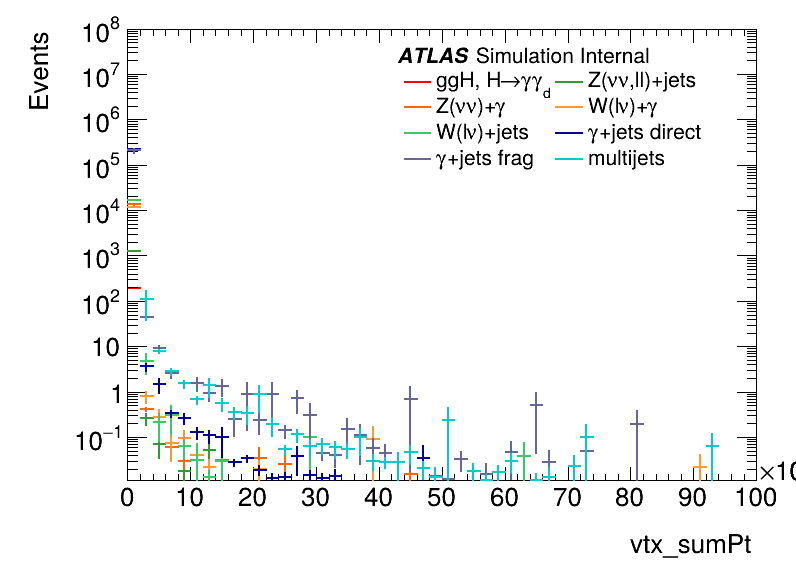
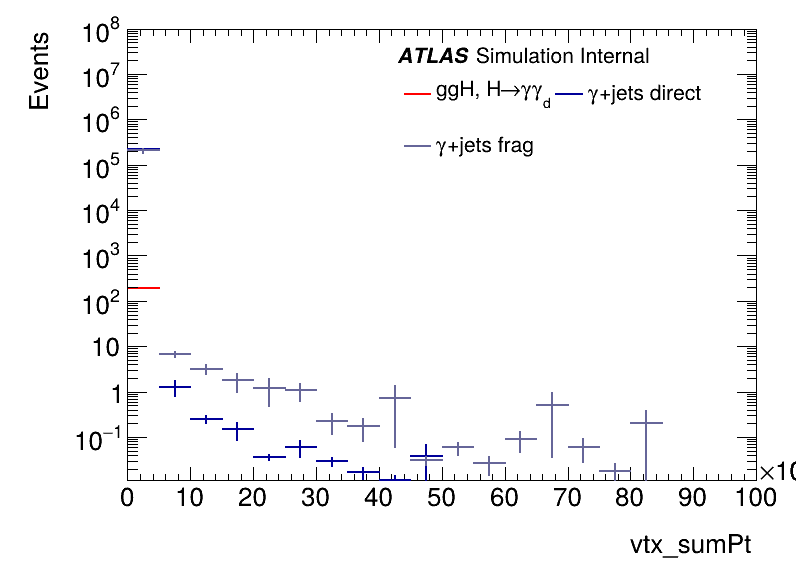
commit all

diff --git a/postprocessing/Plotting/Dictionaries.py b/postprocessing/Plotting/Dictionaries.py
@@ -4,10 +4,10 @@ import ROOT
 
 def getVarDict():
     dict = {}
-    dict['vtx_sumPt']=              {'var':'vtx_sumPt','bins':[50,0,100000], 'title': 'vtx_sumPt', 'shift':'+0'}
+    dict['vtx_sumPt']=              {'var':'vtx_sumPt','bins':[20,0,100000], 'title': 'vtx_sumPt', 'shift':'+0'}
     # dict['puWeight']=               {'var':'pu_weight','bins':[50,0,2], 'title': 'PU weight', 'shift':'+0'}#150*(1-1/0.7)'}
     # dict['actualIntPerXing']=       {'var':'actualIntPerXing','bins':[50,0,100], 'title': '<#mu>', 'shift':'+0'}#150*(1-1/0.7)'}
-    # dict['mt']=                     {'var':'(mt/1000)','bins':[15,0,300], 'title': 'm_{T} [GeV]', 'shift':'+0'}#150*(1-1/0.7)'}
+    # dict['mt']=                     {'var':'sqrt(2*met_tst_et*ph_pt[0]*(1-cos(met_tst_phi-ph_phi[0])))/1000','bins':[15,0,300], 'title': 'm_{T} [GeV]', 'shift':'+0'}#150*(1-1/0.7)'}
     # dict['metsig']=                 {'var':'met_tst_sig','bins':[15,0,30], 'title': 'E_{T}^{miss} significance', 'shift':'*1'}#((met_tst_et+50000)/met_tst_et)'}
     # dict['metsigres']=              {'var':'met_tst_et/met_tst_sig','bins':[50,0,100000], 'title': 'E_{T}^{miss} significance', 'shift':'*1'}
     # dict['met']=                    {'var':'met_tst_et','bins':[50,0,300000], 'title': 'E_{T}^{miss} [GeV]','shift':'+50000'}
@@ -68,7 +68,7 @@ def getSampleDict():
     dict['gammajet_direct'] =   {'color': ROOT.kBlue+2,     'legend': '#gamma+jets direct',                 'tree': 'gammajets',   'filenames': ['gammajet_direct']}
     dict['gammajet_frag'] =     {'color': ROOT.kBlue-5,     'legend': '#gamma+jets frag',                   'tree': 'gammajets',   'filenames': ['gammajet_frag']}
     dict['dijet'] =             {'color': ROOT.kCyan+1,     'legend': 'multijets',                          'tree': 'dijets',   'filenames': ['dijet']}
-    dict['jj'] =             {'color': ROOT.kCyan+1,     'legend': 'multijets',                          'tree': 'dijets',   'filenames': ['jj']}
+    dict['jj'] =                {'color': ROOT.kCyan+1,     'legend': 'multijets',                          'tree': 'dijets',   'filenames': ['jj']}
     dict['ggHyyd'] =            {'color': ROOT.kRed,        'legend': 'ggH, H#rightarrow#gamma#gamma_{d}',  'tree': 'nominal',   'filenames': ['ggHyyd']}
     dict['VBF'] =               {'color': ROOT.kOrange,     'legend': 'VBF, H#rightarrow#gamma#gamma_{d}',  'tree': 'nominal',   'filenames': ['VBF']}
     dict['ZH'] =                {'color': ROOT.kGreen-2,    'legend': 'ZH, H#rightarrow#gamma#gamma_{d}',   'tree': 'nominal',   'filenames': ['ZH']}

diff --git a/postprocessing/Plotting/Plot.py b/postprocessing/Plotting/Plot.py
@@ -45,7 +45,8 @@ if __name__ == '__main__':
     args=parser.parse_args()
     dir = args.dir
     vars = args.vars if args.vars!=['all'] else var_dict
-    samples = args.samples if args.samples!=['all'] else ['ggHyyd','Zjets','Zgamma','Wgamma','Wjets','gammajet_direct','gammajet_frag','dijet']
+    samples = args.samples if args.samples!=['all'] else ['ggHyyd','gammajet_direct','gammajet_frag']
+    # samples = args.samples if args.samples!=['all'] else ['ggHyyd','Zjets','Zgamma','Wgamma','Wjets','gammajet_direct','gammajet_frag','dijet']
     sels = args.cuts
     year = args.period
     stack = args.stack
@@ -111,6 +112,7 @@ if __name__ == '__main__':
                 if sample == 'data': hdata.Add(h[i])
                 if var == 'vertex': print (sample, h[i].GetBinContent(2)/h[i].Integral())
                 if var == 'goodPV': print(sample,(h[i].GetBinContent(2)/h[i].Integral()))
+
 
             
             # --- Draw THStack if needed --- #

diff --git a/postprocessing/Plotting/PlotUtilities.py b/postprocessing/Plotting/PlotUtilities.py
@@ -140,7 +140,9 @@ def Plot(canv, Legend, file_path, h, sample, var, sel, counter = 1, normalize = 
     legend = samples_dict[sample]['legend'] if leg == '' else leg
     shift = '*1'#var_dict[var]['shift'] if 'met_tst_et > 50000' in sel else '*1' #if var == 'mt' else '*1'
 
-    varstr = var_dict[var]['var'] if var!='mt' or period!='mc23d' else 'mt/1000'
+    #varstr = var_dict[var]['var'] if var!='mt' or period!='mc23d' else 'mt/1000'
+    varstr = var_dict[var]['var'] if var!='mt' or period!='mc23d' else 'sqrt(2*met_tst_et*ph_pt[0]*(1-cos(met_tst_phi-ph_phi[0])))/1000'
+
     
     h.SetLineColor(color)
     if sample != 'data':
